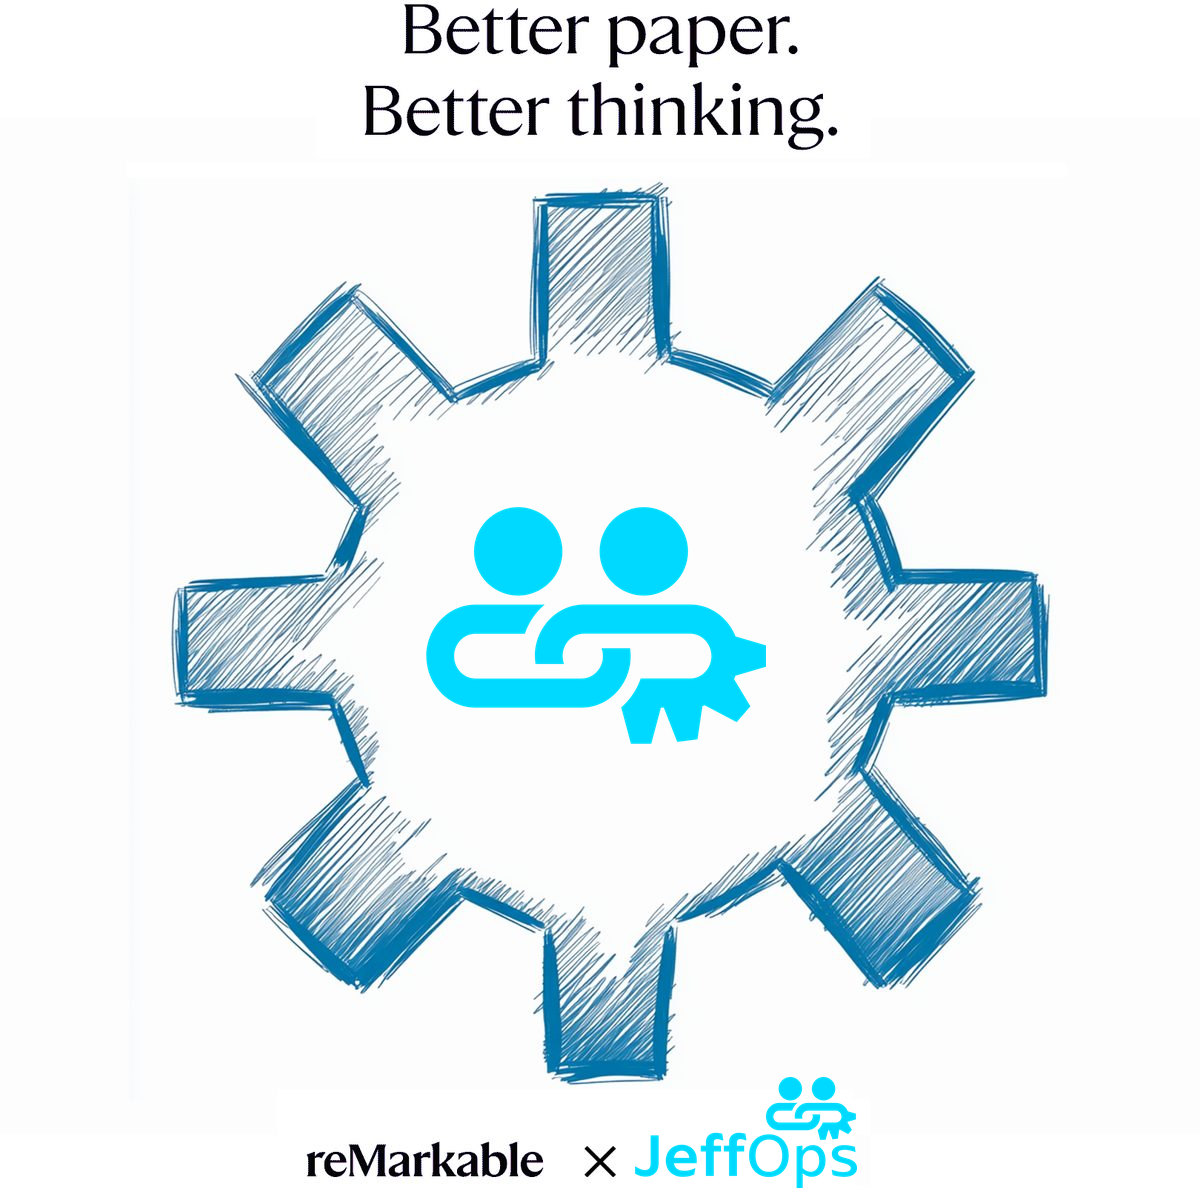
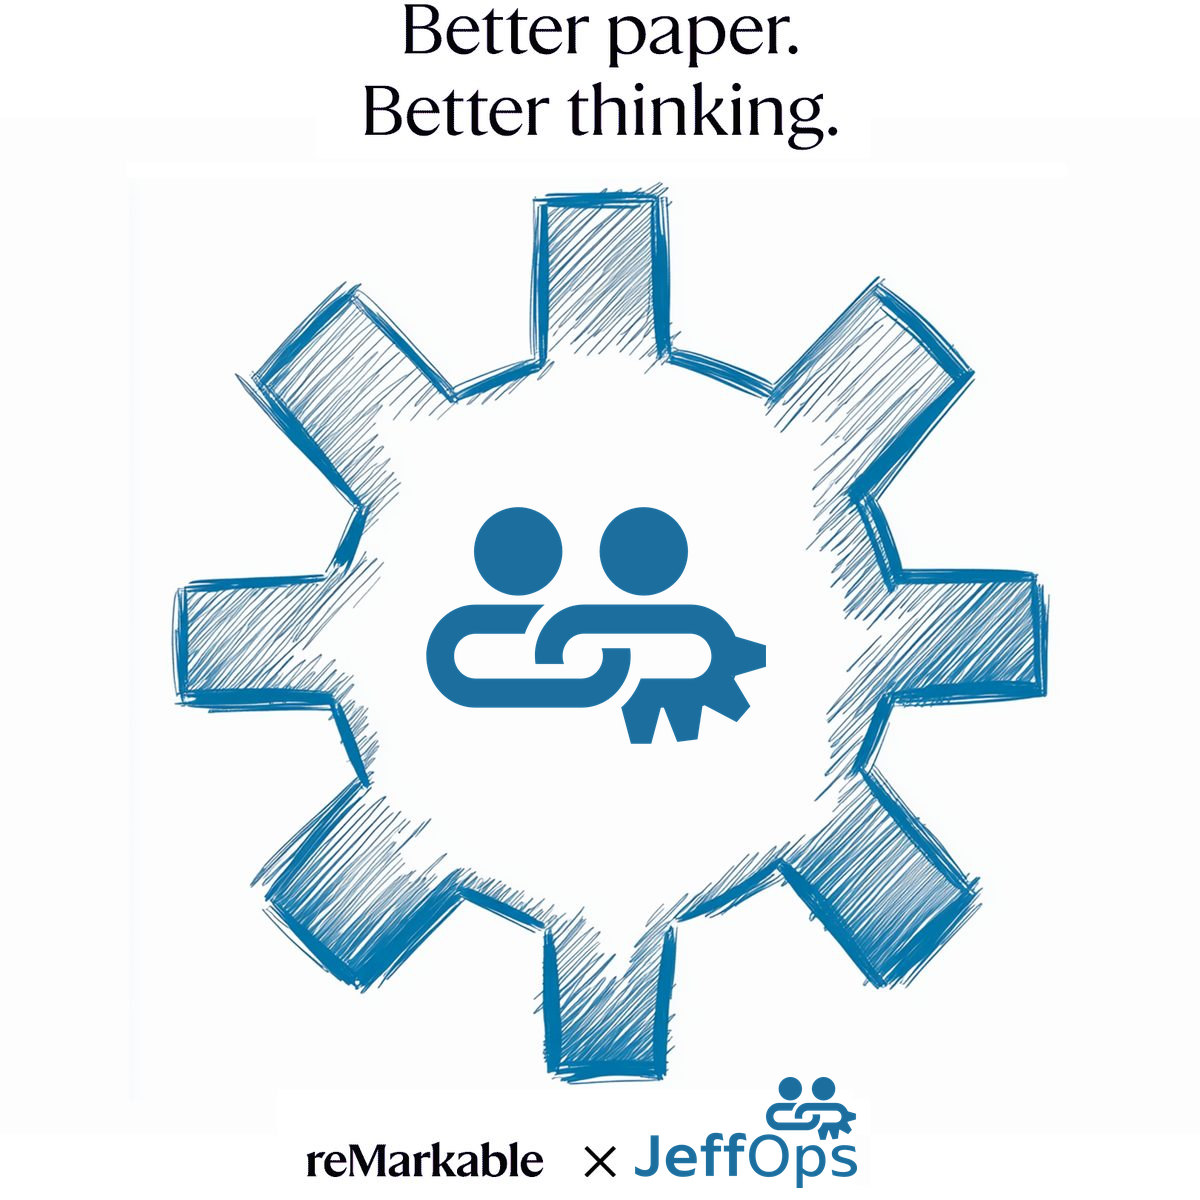
Tighter speaking rows, and one line colour across the chrome
The talk items carried 1.15rem of padding top and bottom; 0.7rem now, which
takes 14px out of every row. Their dividers, the nav's bottom edge and the
footer's top edge all move from --border-dim (faint white) to --border, the
same faint cyan the booking card beside them already used.

Also swaps the reMarkable post's featured image for the artwork-blue variant.

Claude-Session: https://claude.ai/code/session_01JwoWfhTJ4a94vMociw4aNE

Changed region(s): [[0.3392, 0.4008, 0.6475, 0.6167], [0.5242, 0.8942, 0.7092, 0.9867]]

diff --git a/css/styles.css b/css/styles.css
@@ -21,7 +21,7 @@ body::before{content:'';position:fixed;inset:0;background:repeating-linear-gradi
 #read-progress{position:fixed;top:var(--nav-h);left:0;height:2px;width:0%;background:var(--cyan);box-shadow:0 0 8px var(--cyan);z-index:200;transition:width 0.1s linear;display:none;}
 
 /* NAV */
-nav{position:sticky;top:0;z-index:100;background:rgba(10,12,15,0.94);backdrop-filter:blur(12px);border-bottom:1px solid var(--border-dim);padding:0 1rem;display:flex;align-items:center;justify-content:space-between;height:var(--nav-h);flex-shrink:0;}
+nav{position:sticky;top:0;z-index:100;background:rgba(10,12,15,0.94);backdrop-filter:blur(12px);border-bottom:1px solid var(--border);padding:0 1rem;display:flex;align-items:center;justify-content:space-between;height:var(--nav-h);flex-shrink:0;}
 /* The logo replaces the old ">JeffOps.com" text wordmark. color drives the
    whole logo through currentColor: the gradients were flattened so the mark
    and the wordmark are one colour, the site cyan, everywhere it appears. */
@@ -87,7 +87,7 @@ nav{position:sticky;top:0;z-index:100;background:rgba(10,12,15,0.94);backdrop-fi
 
 /* LAYOUT */
 .site-content{flex:1;}
-footer{border-top:1px solid var(--border-dim);padding:0 1rem;display:flex;align-items:center;justify-content:space-between;height:var(--footer-h);font-family:var(--mono);font-size:0.72rem;color:var(--text-dim);flex-shrink:0;background:var(--bg);}
+footer{border-top:1px solid var(--border);padding:0 1rem;display:flex;align-items:center;justify-content:space-between;height:var(--footer-h);font-family:var(--mono);font-size:0.72rem;color:var(--text-dim);flex-shrink:0;background:var(--bg);}
 .footer-logo{color:var(--cyan);display:inline-flex;align-items:center;gap:7px;}
 .footer-mark{height:14px;width:auto;display:block;color:var(--cyan);}
 .footer-rss{color:var(--cyan);text-decoration:none;border:1px solid var(--border);padding:3px 10px;font-size:0.68rem;transition:all 0.2s;}
@@ -333,7 +333,10 @@ footer{border-top:1px solid var(--border-dim);padding:0 1rem;display:flex;align-
 
 /* SPEAKING */
 .talks-layout{display:grid;grid-template-columns:1fr 340px;gap:3rem;align-items:start;}
-.talk-item{padding:1.15rem 0;border-bottom:1px solid var(--border-dim);display:grid;grid-template-columns:100px 1fr;gap:2rem;}
+/* Dividers here match the booking card's border rather than the generic
+   --border-dim white. Same rule for the nav's bottom edge and the footer's
+   top edge, so every full-width line on the page is the one faint cyan. */
+.talk-item{padding:0.7rem 0;border-bottom:1px solid var(--border);display:grid;grid-template-columns:100px 1fr;gap:2rem;}
 .talk-date-col{text-align:right;padding-top:4px;}
 .talk-month{font-family:var(--mono);font-size:0.65rem;text-transform:uppercase;color:var(--text-dim);letter-spacing:0.1em;}
 .talk-day{font-size:2rem;font-weight:800;color:var(--cyan);line-height:1;}
